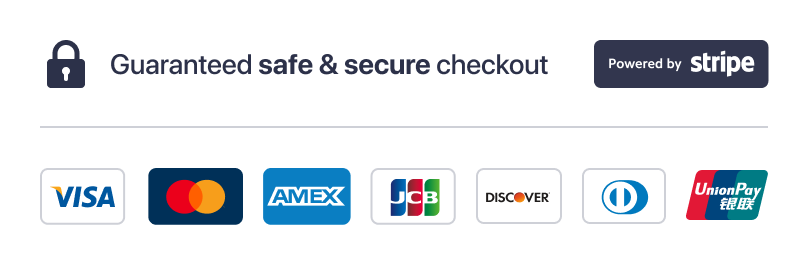
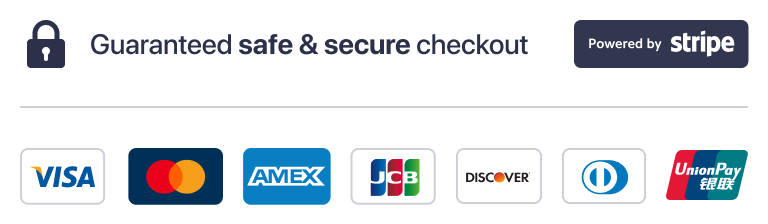
Update stripe image

diff --git a/client/src/components/Static/HelpAndFAQ.tsx b/client/src/components/Static/HelpAndFAQ.tsx
@@ -21,9 +21,9 @@ const HelpAndFAQ = memo(
       <>
        
         <header>
-            <div className="flex flex-col space-y-6 p-6 max-w-4xl mx-auto">
-                <div className="prose prose-lg dark:prose-invert max-w-none">
-                    <h1>HELP & FAQ</h1>
+            <div className="flex flex-col max-w-4xl mx-auto p-6 space-y-8">
+                <div className="space-y-4">
+                    <h1  className="text-x2 font-bold text-gray-900 dark:text-white">HELP & FAQ</h1>
                     <p>Find answers to common questions and get help with using our platform</p>
                 </div>
             </div>

diff --git a/client/src/components/Nav/SettingsTabs/Account/Product.tsx b/client/src/components/Nav/SettingsTabs/Account/Product.tsx
@@ -97,7 +97,7 @@ function Product({ open, onOpenChange }: TDialogProps) {
           </div>
         ))}        
       </div>
-      <div className="flex justify-center mt-4">
+      <div className="flex justify-center">
         <img src="assets/stripe-security-badge.png" alt="Stripe Security Badge" className="w-full max-w-xs" />
       </div>
     </div>        
